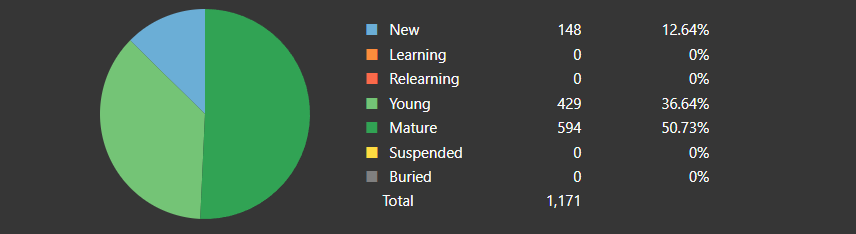
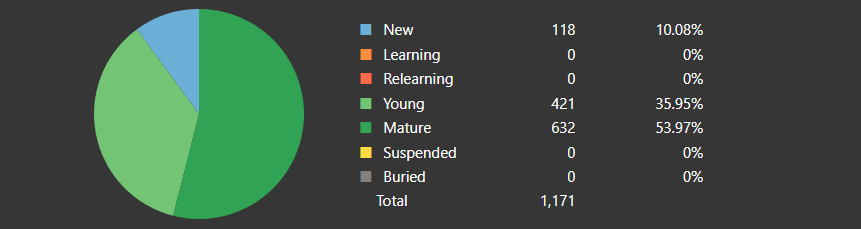
Deployed 5c0c5e2 with MkDocs version: 1.5.3

diff --git a/index.html b/index.html
@@ -423,15 +423,15 @@
       <ul class="md-nav__list">
         
           <li class="md-nav__item">
-  <a href="#tango-n5-as-of-112423" class="md-nav__link">
-    Tango N5 as of 11/24/23
+  <a href="#tango-n5-as-of-112723" class="md-nav__link">
+    Tango N5 as of 11/27/23
   </a>
   
 </li>
         
           <li class="md-nav__item">
-  <a href="#tango-n4-as-of-112423" class="md-nav__link">
-    Tango N4 as of 11/24/23
+  <a href="#tango-n4-as-of-112723" class="md-nav__link">
+    Tango N4 as of 11/27/23
   </a>
   
 </li>
@@ -1920,15 +1920,15 @@
       <ul class="md-nav__list">
         
           <li class="md-nav__item">
-  <a href="#tango-n5-as-of-112423" class="md-nav__link">
-    Tango N5 as of 11/24/23
+  <a href="#tango-n5-as-of-112723" class="md-nav__link">
+    Tango N5 as of 11/27/23
   </a>
   
 </li>
         
           <li class="md-nav__item">
-  <a href="#tango-n4-as-of-112423" class="md-nav__link">
-    Tango N4 as of 11/24/23
+  <a href="#tango-n4-as-of-112723" class="md-nav__link">
+    Tango N4 as of 11/27/23
   </a>
   
 </li>
@@ -1995,13 +1995,13 @@
 
 <h1 id="docjp-landing-page">doc.jp Landing Page<a class="headerlink" href="#docjp-landing-page" title="Permanent link">&para;</a></h1>
 <h2 id="anki-deck-card-counts">Anki Deck Card Counts<a class="headerlink" href="#anki-deck-card-counts" title="Permanent link">&para;</a></h2>
-<h3 id="tango-n5-as-of-112423">Tango N5 as of 11/24/23<a class="headerlink" href="#tango-n5-as-of-112423" title="Permanent link">&para;</a></h3>
-<p><strong>1023</strong> vocabulary words known with <strong>148</strong> new cards remaining </p>
+<h3 id="tango-n5-as-of-112723">Tango N5 as of 11/27/23<a class="headerlink" href="#tango-n5-as-of-112723" title="Permanent link">&para;</a></h3>
+<p><strong>1053</strong> vocabulary words known with <strong>118</strong> new cards remaining </p>
 <ul>
 <li>On track to finish all new cards on <strong>12/09/23</strong> doing <strong>10</strong> new cards a day.</li>
 </ul>
 <p><img align="center" alt="Card Counts" src="assets/anki-stats/n5-card-counts.png" /></p>
-<h3 id="tango-n4-as-of-112423">Tango N4 as of 11/24/23<a class="headerlink" href="#tango-n4-as-of-112423" title="Permanent link">&para;</a></h3>
+<h3 id="tango-n4-as-of-112723">Tango N4 as of 11/27/23<a class="headerlink" href="#tango-n4-as-of-112723" title="Permanent link">&para;</a></h3>
 <p><strong>0</strong> vocabulary words known with <strong>917</strong> new cards remaining: Haven't started this deck yet.</p>
 <p><img align="center" alt="Card Counts" src="assets/anki-stats/n4-card-counts.png" /></p>
 <h2 id="grammar-learning">Grammar Learning<a class="headerlink" href="#grammar-learning" title="Permanent link">&para;</a></h2>
